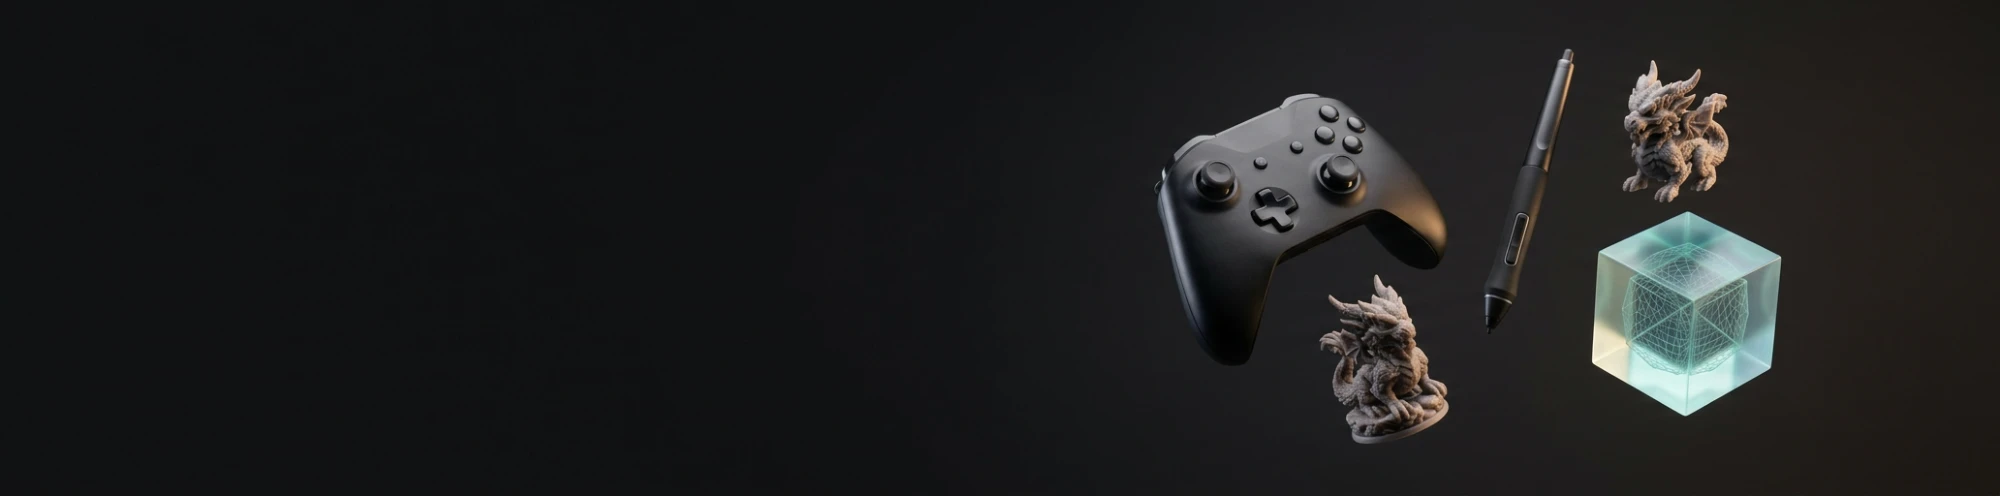
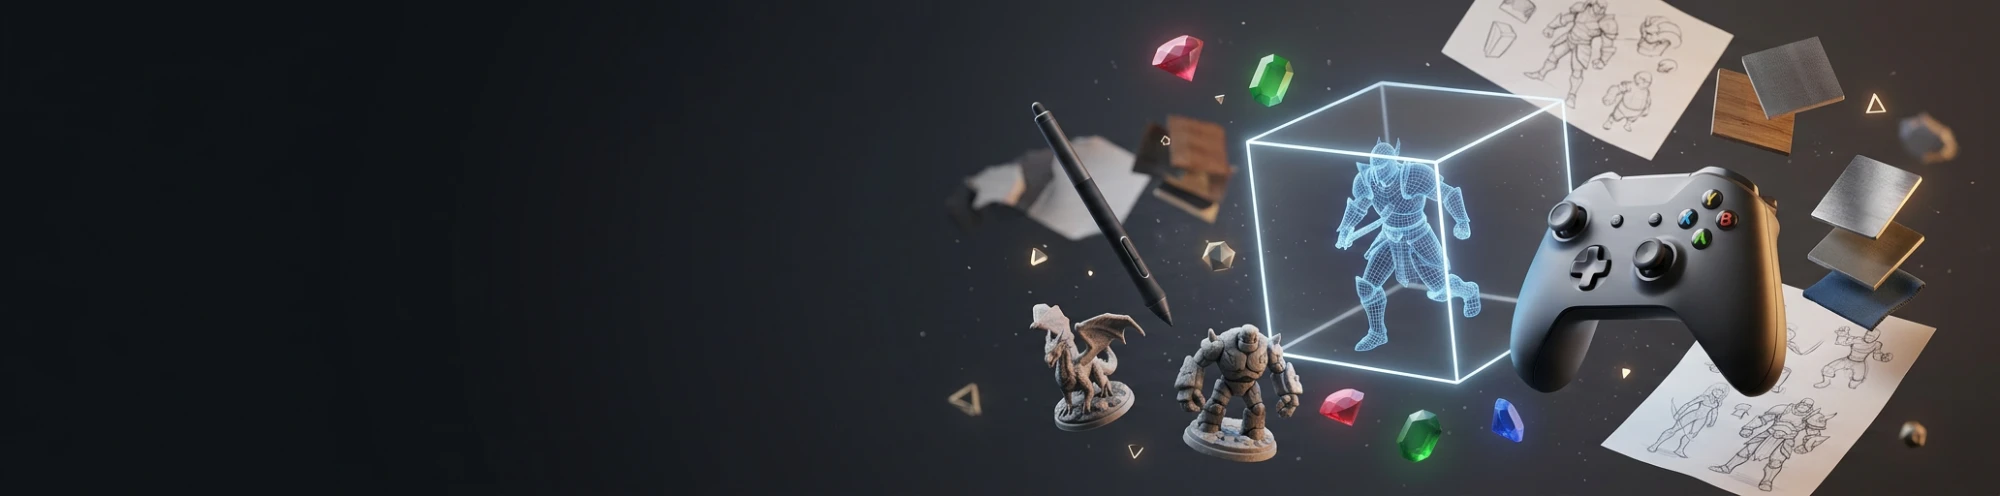
feat: 뉴스 3종·업데이트 전체·이미지 머리 띠 사진 추가
Claude-Session: https://claude.ai/code/session_01MpoBb71xXYxQMpfVMsJYPs

diff --git a/config.js b/config.js
@@ -86,9 +86,9 @@ window.AIAD = {
   //   news:<탭 id>  — 게임 제작 속 AI / AI 도입 뉴스 / 아트 전반 AI 뉴스
   //   updates       — 업데이트 전체,  updates:<분야 slug> — 이미지·영상·3D·게임 에셋·모션·음악·음성·도구
   bands: {
-    'news:games': '/icons/bands/news-games.webp', 'news:industry': '', 'news:art': '',
-    'updates': '',
-    'updates:image': '', 'updates:video': '', 'updates:3d': '', 'updates:game-assets': '',
+    'news:games': '/icons/bands/news-games.webp', 'news:industry': '/icons/bands/news-industry.webp', 'news:art': '/icons/bands/news-art.webp',
+    'updates': '/icons/bands/updates.webp',
+    'updates:image': '/icons/bands/updates-image.webp', 'updates:video': '', 'updates:3d': '', 'updates:game-assets': '',
     'updates:motion': '', 'updates:audio': '', 'updates:tools': '',
   },
 
